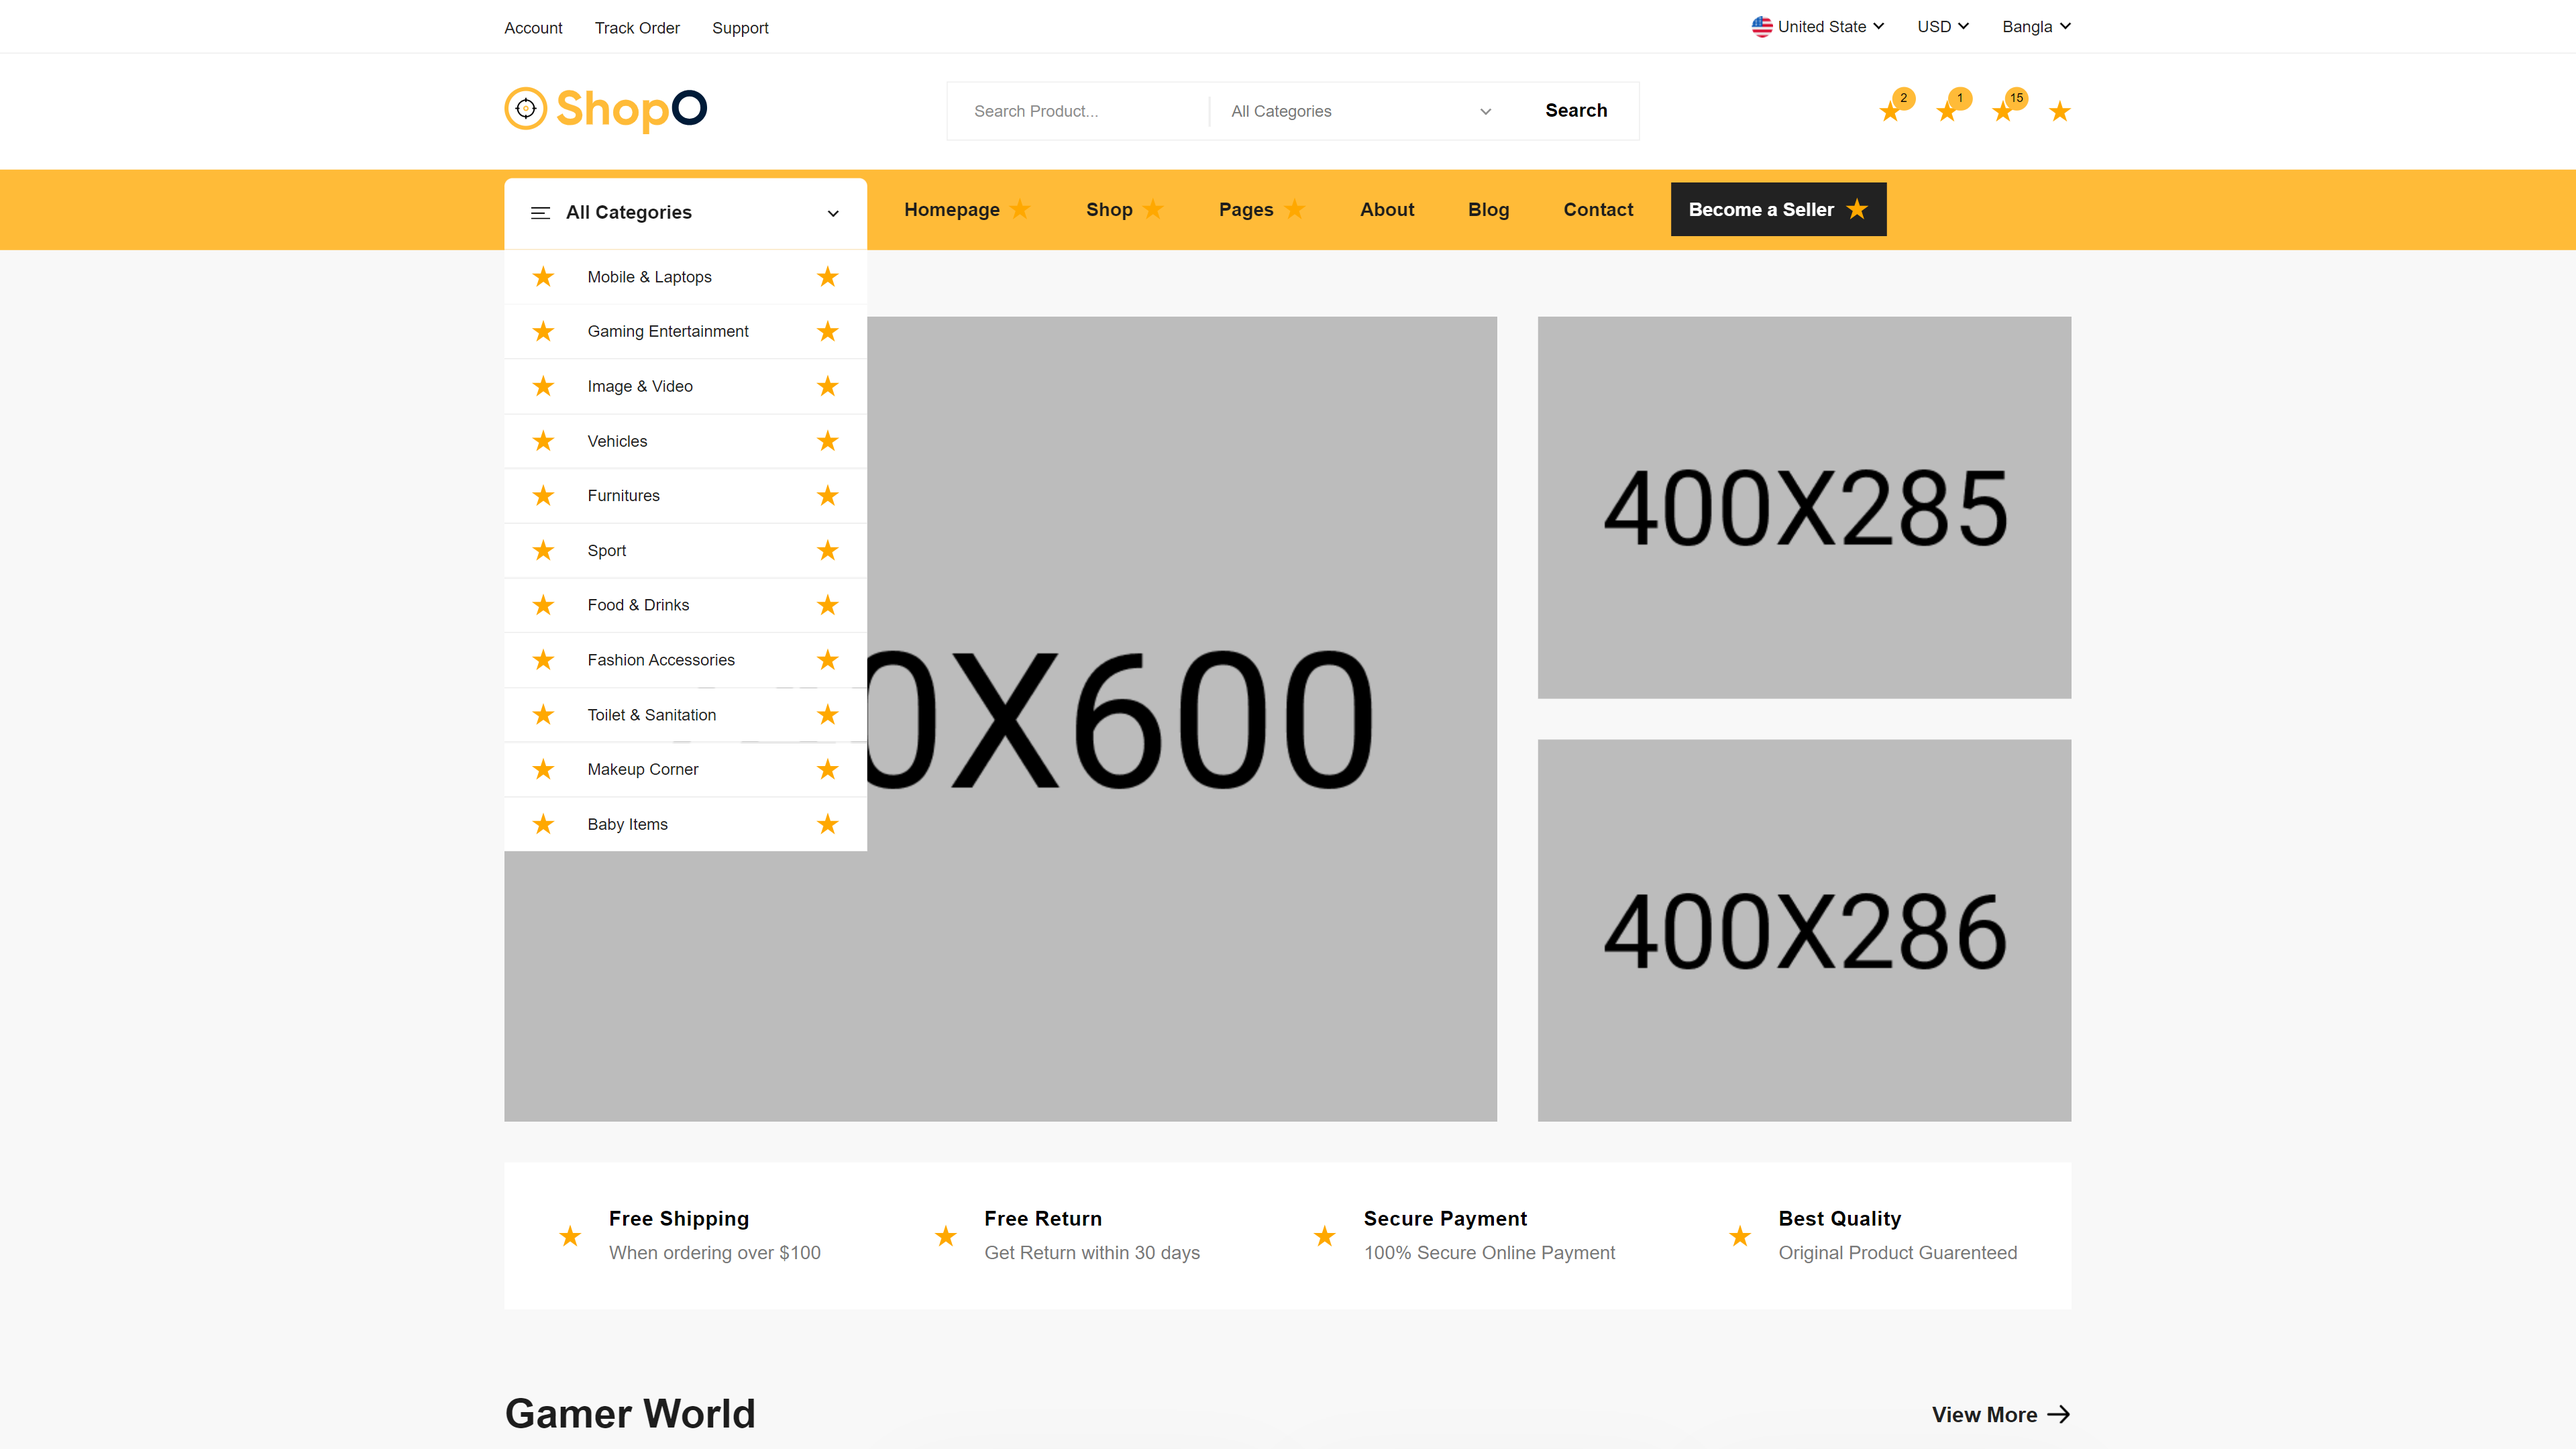
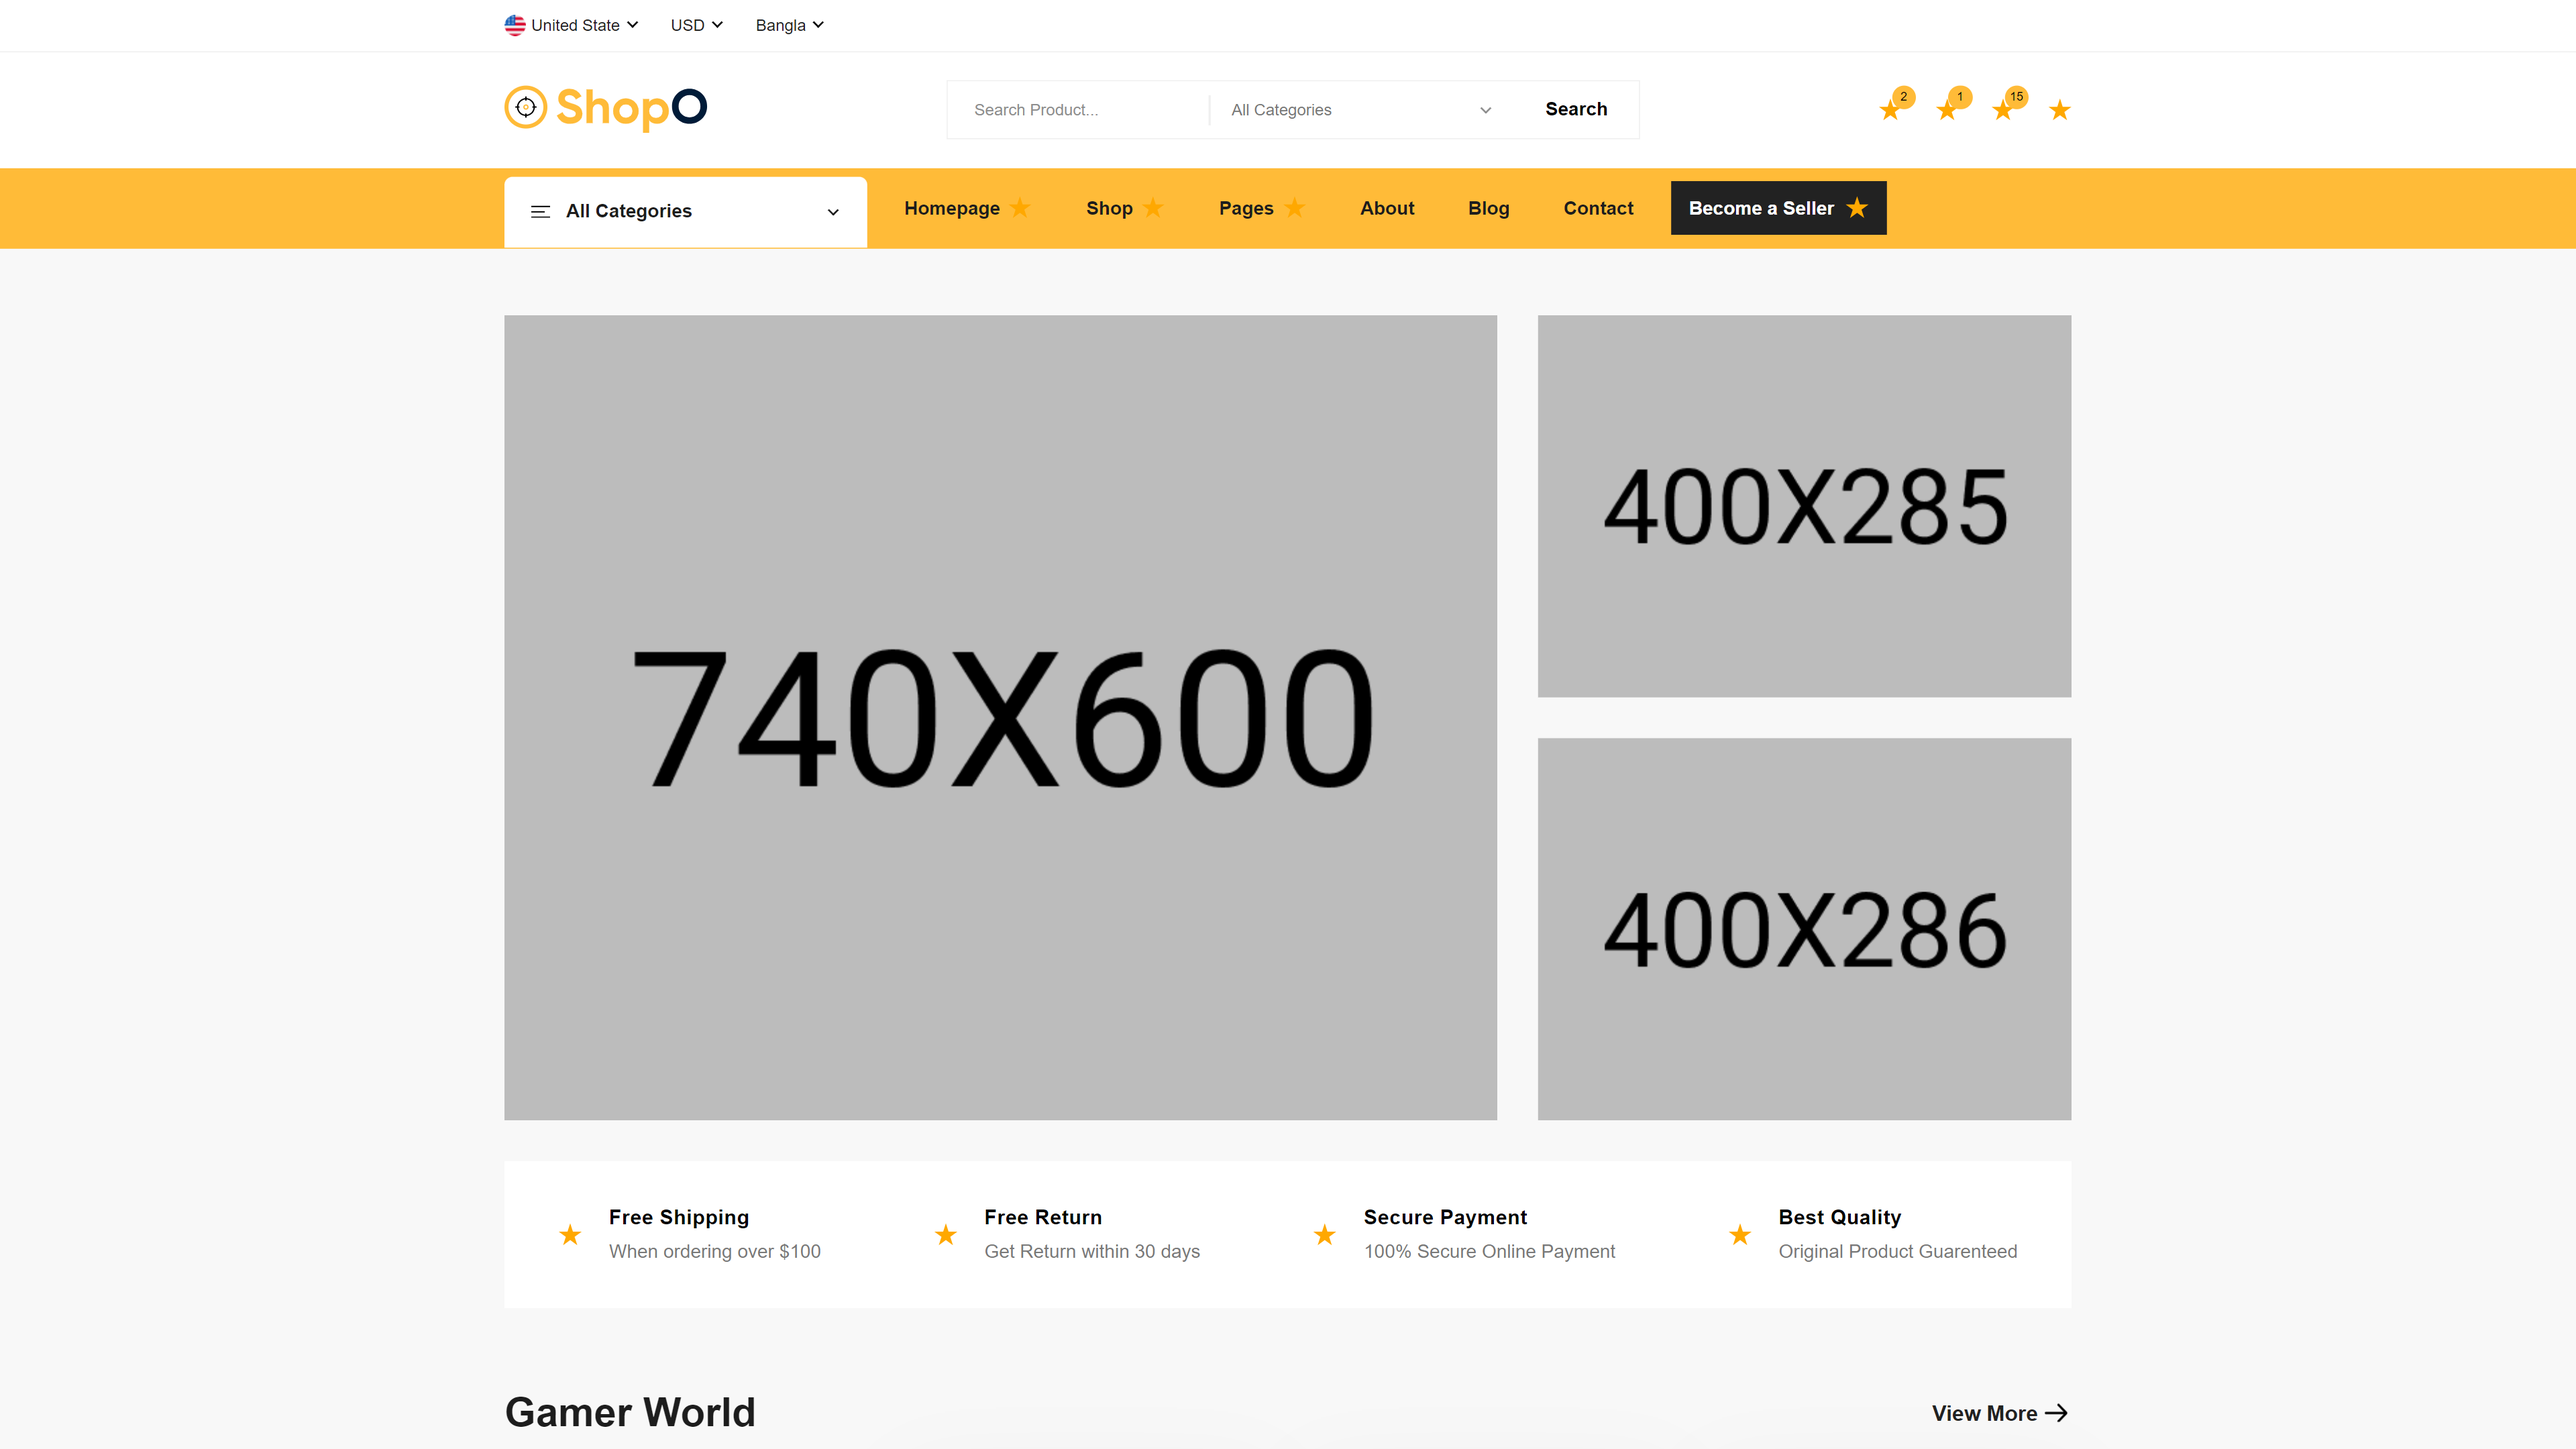
inside topbar topbarnav is  deleted

diff --git a/src/components/Headers/TopBar.jsx b/src/components/Headers/TopBar.jsx
@@ -11,31 +11,6 @@ export default function TopBar({ className }) {
       >
         <div className="container-x mx-auto h-full">
           <div className="flex justify-between items-center h-full">
-            <div className="topbar-nav">
-              <ul className="flex space-x-6">
-                <li>
-                  <a to="/">
-                    <span className="text-xs leading-6 text-qblack font-500">
-                      Account
-                    </span>
-                  </a>
-                </li>
-                <li>
-                  <a to="/tracking-order">
-                    <span className="text-xs leading-6 text-qblack font-500">
-                      Track Order
-                    </span>
-                  </a>
-                </li>
-                <li>
-                  <a to="/faq">
-                    <span className="text-xs leading-6 text-qblack font-500">
-                      Support
-                    </span>
-                  </a>
-                </li>
-              </ul>
-            </div>
             <div className="topbar-dropdowns sm:block hidden">
               <div className="flex space-x-6">
                 <div className="country-select flex space-x-1 items-center">
